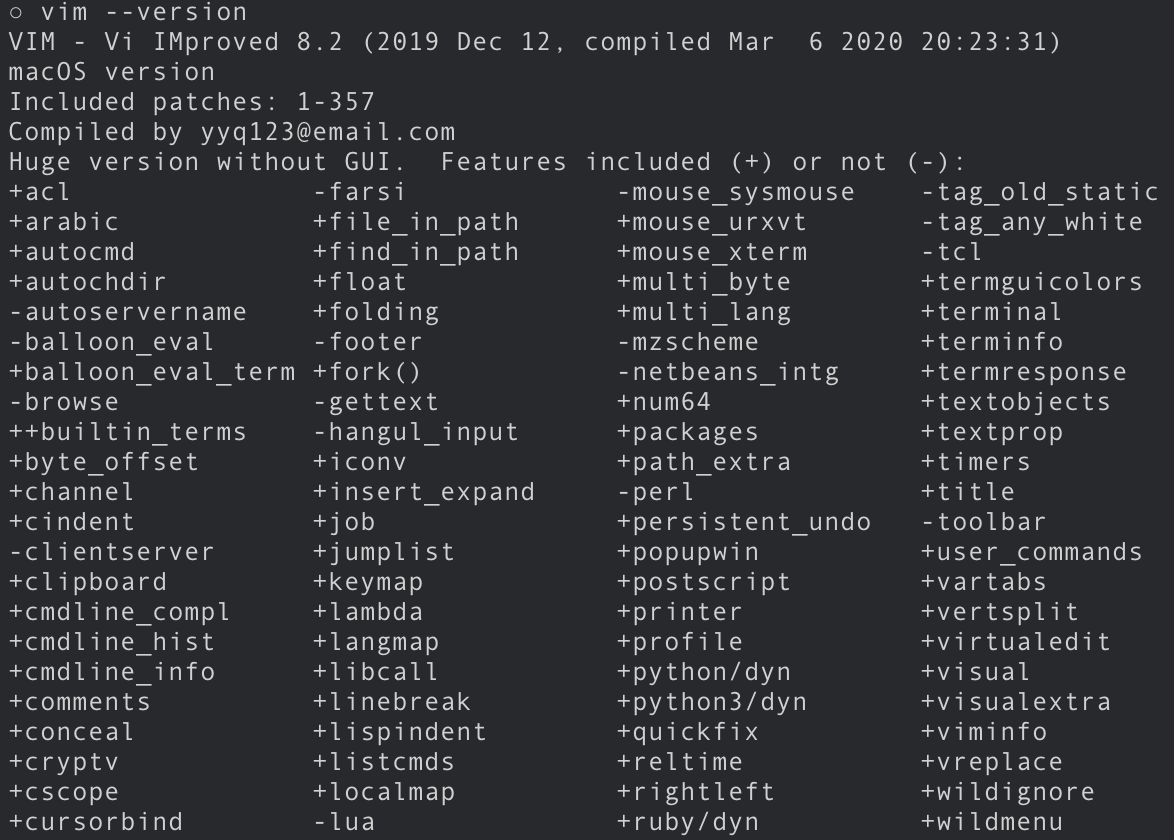
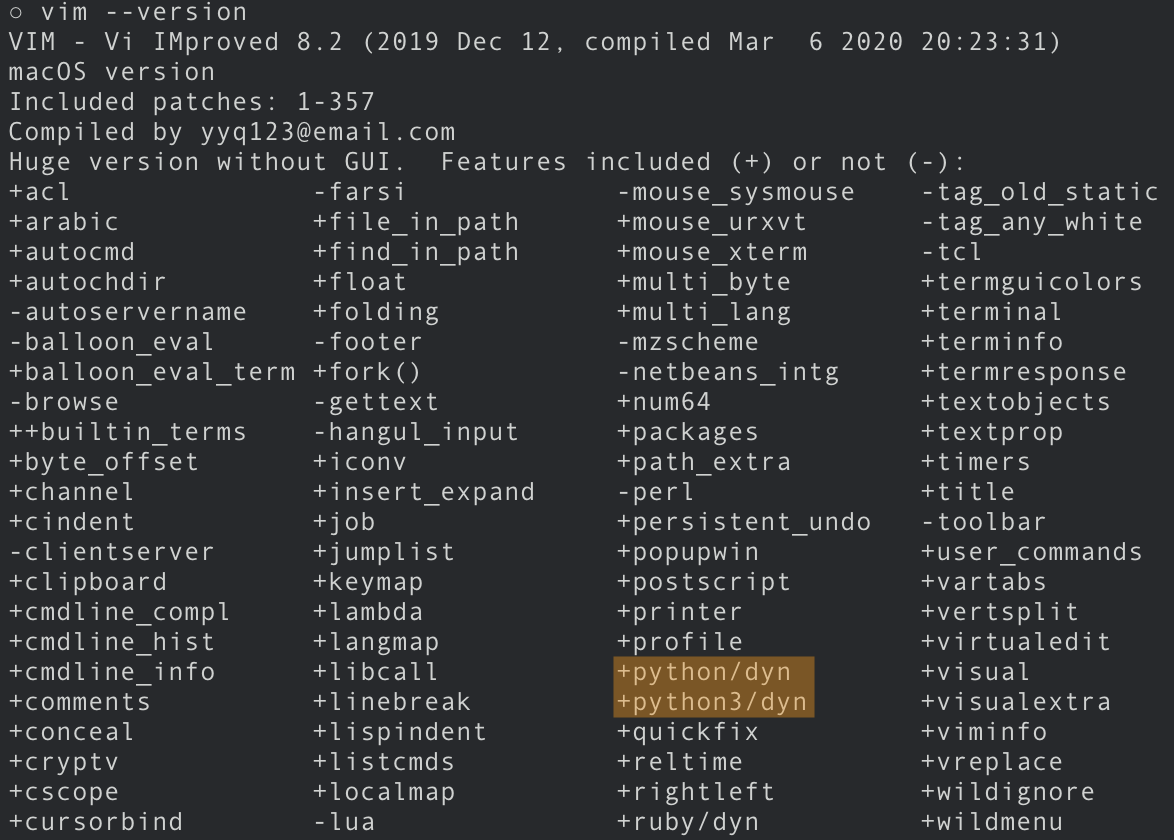
p3

Changed region(s): [[0.5213, 0.7738, 0.7053, 0.8667]]

diff --git a/learn-vim-CompileVim_Mac.html b/learn-vim-CompileVim_Mac.html
@@ -5,26 +5,28 @@
 <head>
 	<meta http-equiv="Content-Type" content="text/html; charset=utf-8" />
 	<link rel="stylesheet" type="text/css" href="learn-vi.css" />
-	<title>VIM学习笔记  ()</title>
+	<title>VIM学习笔记 编译Vim支持Python3 (Compile Vim with Python3 support)</title>
 </head>
 <body>
-	<h1>VIM学习笔记  ()</h1>
+	<h1>VIM学习笔记 编译Vim支持Python3 (Compile Vim with Python3 support)</h1>
 
-	<h2 class="article"><a id="">启用/禁用</a></h2>
-	<p></p>
-	<a href="#" title=""></a>
-Using git to clone the source code and change directory to vim/src, build the source code using make and then install it into /usr/local/bin.
-	<p style="font-weight:bold; border-bottom:1px solid lightgray; border-left:6px solid lightgray; padding:0 0 3px 5px">识别文件</p>
-	<p></p>
-	<p style="text-indent:2em"><code class="inset"></code></p>
-	<p style="text-indent:2em"><code class="inset">git clone https://github.com/vim/vim.git
-	<p style="text-indent:2em"><code class="inset">cd vim</code></p>
-</code></p>
-Download and install python from https://www.python.org/downloads/ 
-If you want to add python and python3 support, then the ./configure must be properly applied. 
+	<p>请注意，本文在Mac OS X 10.15.3下测试完成。以下命令中的参数，需要根据您的系统环境进行相应调整。</p>
+	<h2 class="article"><a id="which_python">前置条件</a></h2>
+	<p>首先确请认已安装Python3或Python2。关于安装和配置信息，请访问<a href="https://www.python.org/downloads/" title="Python">Python</a>网站。</p>
+	<p>使用以下命令，查看当前Python2安装情况：</p>
+	<p><code class="inset">$ which python</code></p>
+	<pre class="block">/usr/bin/python</pre>
+	<p>使用以下命令，查看当前Python3安装情况：</p>
+	<p><code class="inset">$ which python3</code></p>
+	<pre class="block">/usr/bin/python3</pre>
 
-<pre>
-./configure --with-features=huge \
+	<h2 class="article"><a id="compile_vim">编译Vim</a></h2>
+	<p>使用Git命令，将Vim源码复制到本地：</p>
+	<p><code class="inset">$ git clone https://github.com/vim/vim.git</code></p>
+	<p>切换到下载的Vim源码目录：</p>
+	<p><code class="inset">$ cd vim</code></p>
+	<p>通过配置命令，启用需要的特性：</p>
+<pre style="padding:0"><code>$ ./configure --with-features=huge \
 --enable-multibyte \
 --enable-rubyinterp=dynamic \
 --with-ruby-command=/usr/bin/ruby \
@@ -40,11 +42,10 @@ If you want to add python and python3 support, then the ./configure must be prop
 --disable-netbeans \
 --with-compiledby="yyq123@email.com" \
 --enable-fail-if-missing \
---prefix=/usr/local
-</pre>
-Option –enable-fail-if-missing is to see the errors for configuration and stop the configuration immediately.
-
-<pre>
+--prefix=/usr/local</code></pre>
+<p>其中，&ldquo;–-enable-fail-if-missing&rdquo;，用于显示错误信息；&ldquo;--prefix=/usr/local&rdquo;，用于指定生成可执行文件的位置。</p>
+<p>命令将检查配置项，并输出以下类似信息：</p>
+<pre class="block">
 checking --enable-pythoninterp argument... dynamic
 checking --with-python-command argument... no
 checking for python2... /usr/bin/python2
@@ -77,19 +78,21 @@ checking for /usr/bin/ruby... /usr/bin/ruby
 checking Ruby version... OK
 checking Ruby rbconfig... RbConfig
 checking Ruby header files... /Library/Developer/CommandLineTools/SDKs/MacOSX.sdk/System/Library/Frameworks/Ruby.framework/Versions/2.6/usr/include/ruby-2.6.0
-</pre>
-	<p style="text-indent:2em"><code class="inset">$ sudo make</code></p>
-	<pre>
+......</pre>
+	<p>执行以下编译命令：</p>
+	<p><code class="inset">$ sudo make</code></p>
+	<pre class="block">
 Starting make in the src directory.
 If there are problems, cd to the src directory and run make there
 cd src && /Library/Developer/CommandLineTools/usr/bin/make first
 /bin/sh install-sh -c -d objects
 touch objects/.dirstamp
 CC="gcc -Iproto -DHAVE_CONFIG_H   -DMACOS_X -DMACOS_X_DARWIN    " srcdir=. sh ./osdef.sh
-	</pre>
-	<p style="text-indent:2em"><code class="inset">$ sudo make install</code></p>
-	<pre>
-	Starting make in the src directory.
+......</pre>
+	<p>执行以下安装命令，将编译后的二进制文件复制到 /usr/local/bin ：</p>
+	<p><code class="inset">$ sudo make install</code></p>
+	<pre class="block">
+Starting make in the src directory.
 If there are problems, cd to the src directory and run make there
 cd src && /Library/Developer/CommandLineTools/usr/bin/make install
 if test -f /usr/local/bin/vim; then \
@@ -99,44 +102,29 @@ if test -f /usr/local/bin/vim; then \
 cp vim /usr/local/bin
 strip /usr/local/bin/vim
 chmod 755 /usr/local/bin/vim
-	</pre>
-The above code will copy the compiled vim binary into /usr/local/bin so which vim will show /usr/local/bin/vim
-	<p style="text-indent:2em"><code class="inset">which vim</code></p>
-	<pre>
-/usr/local/bin/vim
-	</pre>
-	<p style="text-indent:2em"><code class="inset">vim --version</code></p>
-	<p><a href="https://yyq123.github.io/learn-vim/images/.png" title=""><img src="https://yyq123.github.io/learn-vim/images/.png" alt="" width="500" height="" /></a></p>
-	<p style="color:gray; font-size:0.6em"><a href="http://yyq123.github.io/learn-vim/images/.png" title=""><img src="http://yyq123.github.io/learn-vim/images/.png" alt="" /></a></br>Source: medium.com/free-code-camp</p>
+......</pre>
+	<p>关闭并重新打开Terminal终端，执行以下命令将显示已使用新编译的Vim：</p>
+	<p><code class="inset">$ which vim</code></p>
+	<pre class="block">/usr/local/bin/vim</pre>
+	<p>执行以下命令，将显示新编译的Vim已包含Python3特性：</p>
+	<p><code class="inset">$ vim --version</code></p>
+	<p><a href="https://yyq123.github.io/learn-vim/images/compile_vim_version.png" title="compile_vim_version"><img src="https://yyq123.github.io/learn-vim/images/compile_vim_version.png" alt="compile_vim_version" width="550" height="394" /></a></p>
+	<p>其中，与Python相关的特性主要包括：</p>
+	<ul>
+		<li><var>+python</var>，内置支持Python 2；</li>
+		<li><var>+python3</var>，内置支持Python 3；</li>
+		<li><var>+python/dyn</var>，动态支持Python 2；</li>
+		<li><var>+python3/dyn</var>，动态支持Python 3；</li>
+	</ul>
+	<p>根据以上步骤，我们保持/usr/bin目录下预装的Vim不变，另外在/usr/local/bin目录下安装了自已编译的Vim。</p>
 
+	<h2 class="article"><a id="compile_vim_uninstall">卸载Vim</a></h2>
+	<p>使用以下命令，可以重置编译操作：</p>
+	<p><code class="inset">$ sudo make distclean</code></p>
+	<p>使用以下命令，可以卸载Vim：</p>
+	<p><code class="inset">$ sudo make uninstall</code></p>
 
-To start over the whole build configuration
-cd src && make distclean
-To uninstall an existing vim
-cd src && make uninstall
-
-:!python3 %
-When you do :!python3 & you are actually running a shell that executes the command python3 myFile.py. That will run your program non-interactively
-You can force the interactive mode with :!python3 -i %.
-Alternatively you can do :!python3 without arguments: it will launch an interactive python shell. 
-
-	<table summary="Commands" border="1" frame="border" rules="all" cellspacing="0" cellpadding="3">
-		<caption style="margin:0.5em; font-weight:bold">选项列表</caption>
-		<tr><th style="white-space: nowrap">选项</th><th>描述</th><th>帮助信息</th></tr>
-		<tr><td><code class="inset">!</code></td><td>如果包含，表示。例如，。</td><td style="white-space: nowrap"><code class="inset">:help viminfo-!</code></td></tr>
-	</table>
-
-	<table summary="Commands" border="2" frame="hsides" rules="all" cellspacing="0" cellpadding="3">
-		<caption>命令小结</caption>
-		<tr><td><code class="inset">:</code></td><td rowspan="2"></td></tr>
-		<tr><td><code class="inset">:</code></td></tr>
-		<tr><td><code class="inset">:</code></td><td></td></tr>
-		<tr><td><code class="inset">:</code></td><td></td></tr>
-		<tr><td><code class="inset">:</code></td><td></td></tr>
-	</table>
-&ldquo;&rdquo;
-
-	<p style="border-top:1px solid lightgray"><span style="float:right">Ver: 2.0&nbsp;|&nbsp;<a href="mailto:yyq123@gmail.com">YYQ</a></span><span>&lt;<a title="" href="http://yyq123.github.io/learn-vim/.html">上一篇</a>&nbsp;|<a title="笔记列表" href="http://yyq123.github.com/learn-vim/learn-vi-00-00-TOC.html">&nbsp;目录&nbsp;</a>|&nbsp;<a title="" href="http://yyq123.github.io/learn-vim/.html">下一篇</a>&gt;</span></p>
+	<p style="border-top:1px solid lightgray"><span style="float:right">Ver: 2.0&nbsp;|&nbsp;<a href="mailto:yyq123@gmail.com">YYQ</a></span><span>&lt;<a title="在Mac下安装Vim" href="http://yyq123.github.io/learn-vim/learn-vi-202-Install-Vim-Mac.html">上一篇</a>&nbsp;|<a title="笔记列表" href="http://yyq123.github.com/learn-vim/learn-vi-00-00-TOC.html">&nbsp;目录&nbsp;</a>|&nbsp;<a title="启动(Starting)" href="http://yyq123.github.io/learn-vim/learn-vi-209-Start.html">下一篇</a>&gt;</span></p>
 
 </body>
 </html>

diff --git a/learn-vim-python-mode.html b/learn-vim-python-mode.html
@@ -1,0 +1,66 @@
+<!DOCTYPE html PUBLIC "-//W3C//DTD XHTML 1.0 Strict//EN"
+"http://www.w3.org/TR/xhtml1/DTD/xhtml1-strict.dtd">
+
+<html xmlns="http://www.w3.org/1999/xhtml" lang="zh" xml:lang="zh">
+<head>
+	<meta http-equiv="Content-Type" content="text/html; charset=utf-8" />
+	<link rel="stylesheet" type="text/css" href="learn-vi.css" />
+	<title>VIM学习笔记  ()</title>
+</head>
+<body>
+	<h1>VIM学习笔记  ()</h1>
+
+	<h2 class="article"><a id="">启用/禁用</a></h2>
+	<p></p>
+	<a href="#" title=""></a>
+
+	<p style="font-weight:bold; border-bottom:1px solid lightgray; border-left:6px solid lightgray; padding:0 0 3px 5px">识别文件</p>
+	<p></p>
+	<p style="text-indent:2em"><code class="inset"></code></p>
+:!python3 %
+When you do :!python3 & you are actually running a shell that executes the command python3 myFile.py. That will run your program non-interactively
+You can force the interactive mode with :!python3 -i %.
+Alternatively you can do :!python3 without arguments: it will launch an interactive python shell.
+
+vimrc
+<pre>
+" for python 3.X
+set pythonthreehome=/Library/Developer/CommandLineTools/Library/Frameworks/Python3.framework/Versions/3.7
+set pythonthreedll=/Library/Developer/CommandLineTools/Library/Frameworks/Python3.framework/Versions/3.7/lib/libpython3.7m.dylib
+" for python 2.X
+set pythonhome=/System/Library/Frameworks/Python.framework/Versions/2.7
+set pythondll=/System/Library/Frameworks/Python.framework/Versions/2.7/Python
+</pre>
+
+:py3 print('hello world')
+
+:help python-dynamic
+You can find the exact path of ':help pythonhome' and :help 'pythonthreehome' on your machine by executing this one-liner in the python and  REPL:
+
+在python3中，执行以下命令可以查看系统路径：
+
+import sys; print(sys.path)
+
+	<p><a href="https://yyq123.github.io/learn-vim/images/.png" title=""><img src="https://yyq123.github.io/learn-vim/images/.png" alt="" width="500" height="" /></a></p>
+	<p style="color:gray; font-size:0.6em"><a href="http://yyq123.github.io/learn-vim/images/.png" title=""><img src="http://yyq123.github.io/learn-vim/images/.png" alt="" /></a></br>Source: medium.com/free-code-camp</p>
+
+	<table summary="Commands" border="1" frame="border" rules="all" cellspacing="0" cellpadding="3">
+		<caption style="margin:0.5em; font-weight:bold">选项列表</caption>
+		<tr><th style="white-space: nowrap">选项</th><th>描述</th><th>帮助信息</th></tr>
+		<tr><td><code class="inset">!</code></td><td>如果包含，表示。例如，。</td><td style="white-space: nowrap"><code class="inset">:help viminfo-!</code></td></tr>
+	</table>
+
+	<table summary="Commands" border="2" frame="hsides" rules="all" cellspacing="0" cellpadding="3">
+		<caption>命令小结</caption>
+		<tr><td><code class="inset">:</code></td><td rowspan="2"></td></tr>
+		<tr><td><code class="inset">:</code></td></tr>
+		<tr><td><code class="inset">:</code></td><td></td></tr>
+		<tr><td><code class="inset">:</code></td><td></td></tr>
+		<tr><td><code class="inset">:</code></td><td></td></tr>
+	</table>
+&ldquo;&rdquo;
+
+	<p style="border-top:1px solid lightgray"><span style="float:right">Ver: 2.0&nbsp;|&nbsp;<a href="mailto:yyq123@gmail.com">YYQ</a></span><span>&lt;<a title="" href="http://yyq123.github.io/learn-vim/.html">上一篇</a>&nbsp;|<a title="笔记列表" href="http://yyq123.github.com/learn-vim/learn-vi-00-00-TOC.html">&nbsp;目录&nbsp;</a>|&nbsp;<a title="" href="http://yyq123.github.io/learn-vim/.html">下一篇</a>&gt;</span></p>
+
+</body>
+</html>

diff --git a/samples/HelloWorld.py b/samples/HelloWorld.py
@@ -1,0 +1,3 @@
+# This program prints Hello, world!
+
+print('Hello, world!')
